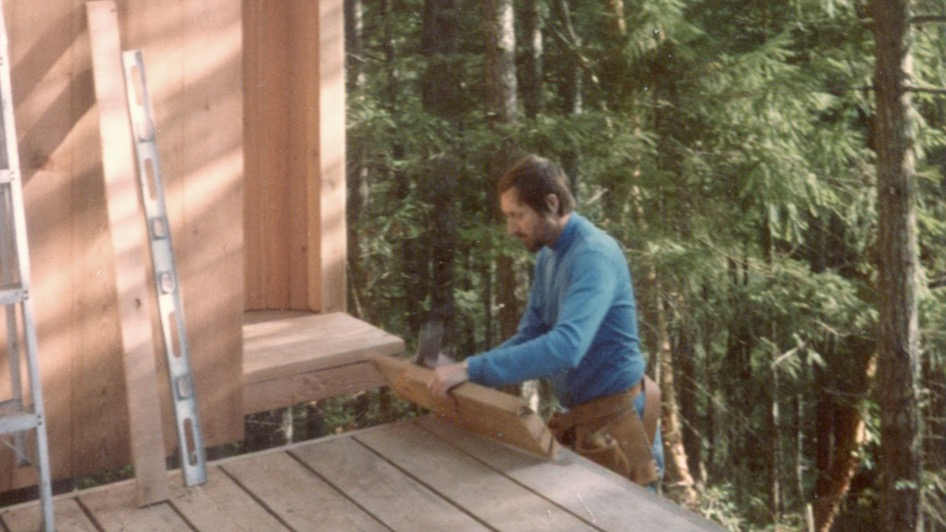
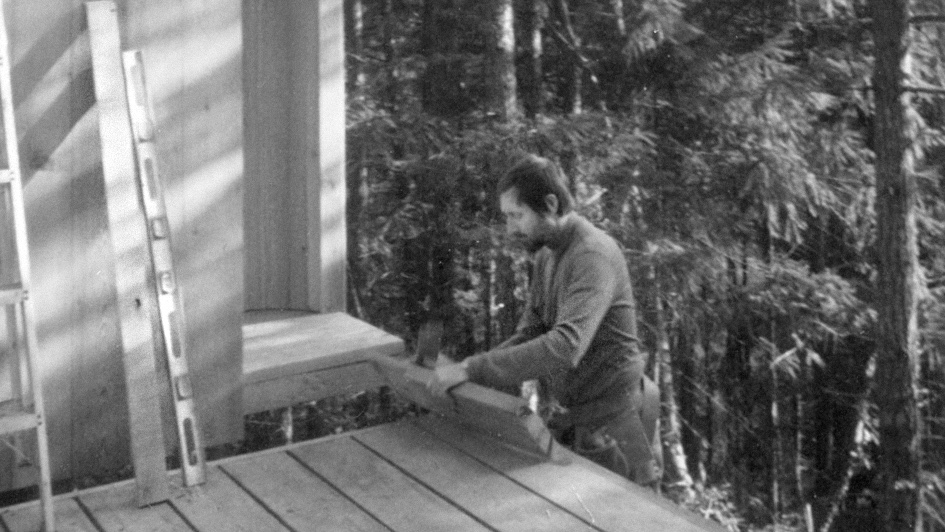
entry-test5 e5-v1.30: replace HUNTER background with the new B&W photo
Swapped cards/hunter/BACKGROUND.jpg for the supplied HUNTER_CC image (945x532,
sRGB, q86). Cache-buster ?v=6->7. (grayscale filter stays — no-op on the already
B&W photo.)

diff --git a/entry-test5.html b/entry-test5.html
@@ -545,7 +545,7 @@
   <!-- HUNTER: revealed first (in #act1) so the menu reads HUNTER · HOUSE · ARCHIVE.
        PS-composed full-bleed card (assets/entry/cards/hunter/) -->
   <section class="scard ps cover" data-section="hunter">
-    <div class="bgclip"><img class="layer" src="assets/entry/cards/hunter/BACKGROUND.jpg?v=6" alt="Richard Hunter building the deck of his house, 1978"></div>
+    <div class="bgclip"><img class="layer" src="assets/entry/cards/hunter/BACKGROUND.jpg?v=7" alt="Richard Hunter building the deck of his house, 1978"></div>
     <div class="about-text">
       <p class="at-statement">Richard Morrow Hunter, Architect. 1930 – 2023.<br><br>Fifty years designing one house.</p>
       <div class="at-foot">
@@ -601,7 +601,7 @@
   <button class="room-x" id="room-x" aria-label="Close">×</button>
   <div class="room-pager"><button id="room-prev" aria-label="Previous">‹</button><span><span id="room-n">1</span> / <span id="room-m">1</span></span><button id="room-next" aria-label="Next">›</button></div>
 </div>
-<div id="ver" style="position:fixed;right:12px;bottom:10px;z-index:9;font-family:'JetBrains Mono',Menlo,monospace;font-size:9px;letter-spacing:.06em;color:rgba(27,25,24,.35);pointer-events:none">e5-v1.29</div>
+<div id="ver" style="position:fixed;right:12px;bottom:10px;z-index:9;font-family:'JetBrains Mono',Menlo,monospace;font-size:9px;letter-spacing:.06em;color:rgba(27,25,24,.35);pointer-events:none">e5-v1.30</div>
 
 <script>
 // entry-test2 v0.36 — z: 0..1 the entry photograph (title → wordmark) ·
@@ -1788,7 +1788,7 @@
   if (document.fonts && document.fonts.ready) document.fonts.ready.then(function () { apply(); });
 
   apply();
-  console.log("entry-test5 e5-v1.29 — 1C lateral rooms (HOUSE/HUNTER) with horizontal plate paging");
+  console.log("entry-test5 e5-v1.30 — 1C lateral rooms (HOUSE/HUNTER) with horizontal plate paging");
 })();
 </script>
 <!-- ── adaptive entry film: pick a resolution tier by connection + display ── -->
